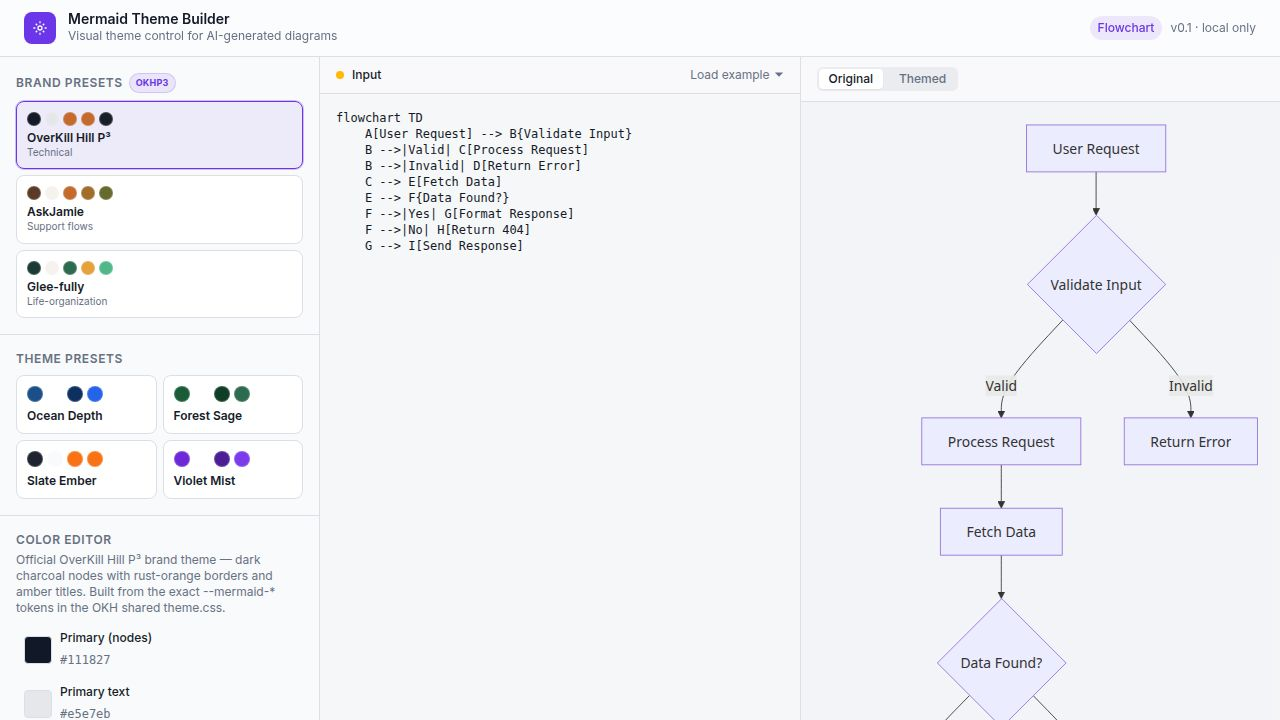
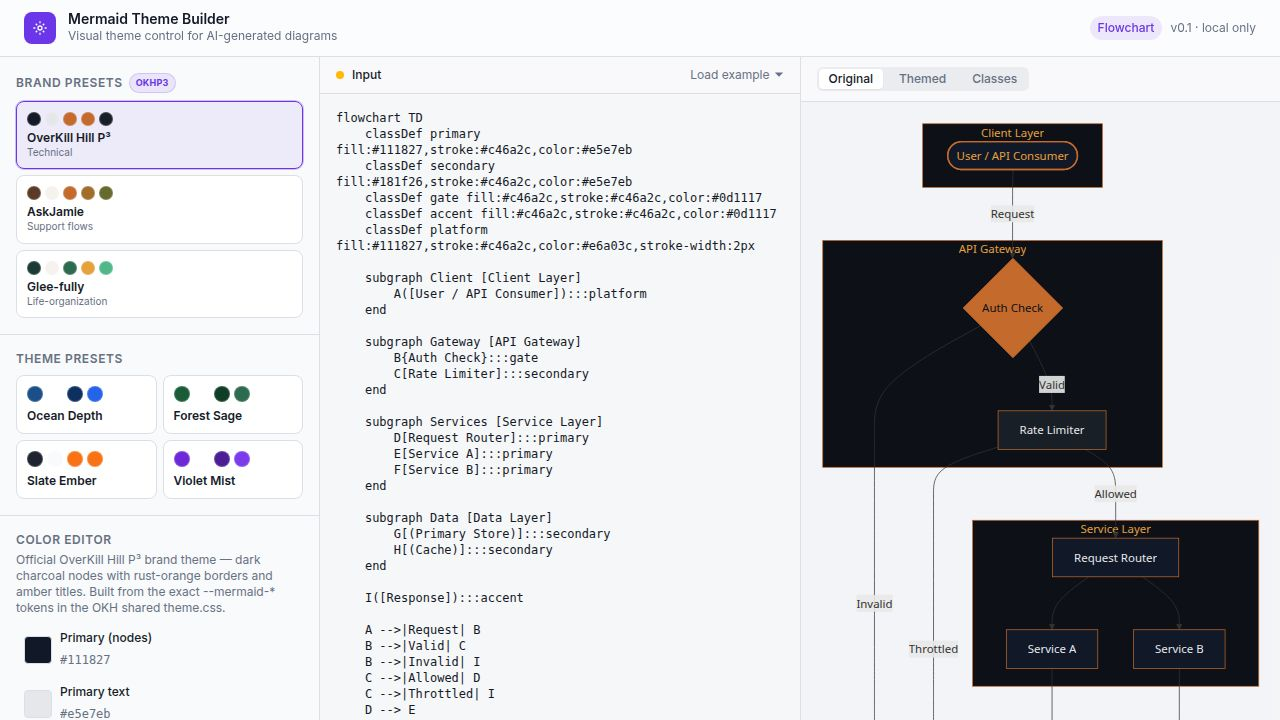
feat: Add Class Library tab showing live preview of all 16 diagram style classes
Task: Show a live preview of all 16 diagram style classes in the app (Task #8)

## What was built
- Exported a new `getClassDefs(palette: Palette): ClassDef[]` function from
  `artifacts/mermaid-theme-builder/src/lib/themeEngine.ts` that returns all 16
  semantic class definitions (primary, secondary, tertiary, platform, boundary,
  actor, gate, control, log, question, accent, deepBlue, slate, scope,
  outOfScope, redDash) as structured objects with fill, stroke, color, extra
  styles, and a human-readable description.

- Refactored `buildClassDefLibrary` to call `getClassDefs` internally, making
  it the single source of truth. The prompt-scaffold classDef text and the
  visual class browser always stay in sync — no duplicated definition arrays.

- Created `artifacts/mermaid-theme-builder/src/components/ClassBrowser.tsx`:
  a new component rendering a 4-column responsive CSS grid of 16 styled node
  cards. Each card mirrors the Mermaid classDef appearance using inline styles
  (fill as background, stroke as SVG rect border with dasharray support via an
  overlay rect, text in the class's color with font-weight/font-style extras).
  Clicking any card copies `:::className` to clipboard and shows a brief
  confirmation badge.

- Fixed `parseDashArray` regex to use `[\d.\s]+` instead of `[\d,\s]+` so
  comma-separated extra properties like `stroke-dasharray:8,opacity:0.6` are
  parsed cleanly — yielding `"8"` instead of `"8,"`.
[…]

diff --git a/artifacts/mermaid-theme-builder/src/lib/themeEngine.ts b/artifacts/mermaid-theme-builder/src/lib/themeEngine.ts
@@ -217,13 +217,32 @@ ${themeLines}
 
 /** Build a 16-entry semantic classDef library from palette hex values.
  *
- *  Classes are derived entirely from the palette's own color tokens —
- *  no BFS or third-party brand values are ever used here.
- *
- *  The "redDash" class uses a fixed deep-red (#3b0e0e / #b91c1c) that is
- *  an accessibility/warning marker, NOT a brand color.
+ *  Delegates to getClassDefs() as the single source of truth so the rendered
+ *  class browser and the exported classDef text always stay in sync.
  */
 function buildClassDefLibrary(palette: Palette): string {
+  return getClassDefs(palette)
+    .map(({ name, fill, stroke, color, extra }) => {
+      const style = [`fill:${fill}`, `stroke:${stroke}`, `color:${color}`, extra].filter(Boolean).join(",");
+      return `    classDef ${name} ${style}`;
+    })
+    .join("\n");
+}
+
+export interface ClassDef {
+  name: string;
+  fill: string;
+  stroke: string;
+  color: string;
+  extra: string;
+  description: string;
+}
+
+/**
+ * Returns all 16 semantic class definitions for the given palette as structured objects.
+ * Useful for building UI previews or custom renderers.
+ */
+export function getClassDefs(palette: Palette): ClassDef[] {
   const c = (key: string, fallback: string) =>
     palette.colors.find((cl) => cl.key === key)?.value ?? fallback;
 
@@ -239,31 +258,24 @@ function buildClassDefLibrary(palette: Palette): string {
   const titleColor     = c("titleColor",          "#e0e0e0");
   const lineColor      = c("lineColor",           "#888888");
 
-  const classes = [
-    { name: "primary",     fill: primary,    stroke: primaryBorder, color: primaryText,  extra: "" },
-    { name: "secondary",   fill: secondary,  stroke: primaryBorder, color: primaryText,  extra: "" },
-    { name: "tertiary",    fill: tertiary,   stroke: nodeBorder,    color: primaryText,  extra: "" },
-    { name: "platform",    fill: mainBkg,    stroke: lineColor,     color: primaryText,  extra: "" },
-    { name: "boundary",    fill: clusterBkg, stroke: lineColor,     color: titleColor,   extra: "stroke-dasharray:5" },
-    { name: "actor",       fill: primary,    stroke: primaryBorder, color: primaryText,  extra: "font-weight:bold" },
-    { name: "gate",        fill: primaryBorder, stroke: nodeBorder, color: background,   extra: "" },
-    { name: "control",     fill: tertiary,   stroke: nodeBorder,    color: primaryText,  extra: "" },
-    { name: "log",         fill: secondary,  stroke: lineColor,     color: primaryText,  extra: "font-style:italic" },
-    { name: "question",    fill: mainBkg,    stroke: lineColor,     color: titleColor,   extra: "stroke-dasharray:3" },
-    { name: "accent",      fill: lineColor,  stroke: nodeBorder,    color: background,   extra: "" },
-    { name: "deepBlue",    fill: primary,    stroke: nodeBorder,    color: primaryText,  extra: "stroke-width:2px" },
-    { name: "slate",       fill: background, stroke: lineColor,     color: primary,      extra: "" },
-    { name: "scope",       fill: clusterBkg, stroke: primaryBorder, color: titleColor,   extra: "stroke-width:2px" },
-    { name: "outOfScope",  fill: background, stroke: nodeBorder,    color: primaryText,  extra: "stroke-dasharray:8,opacity:0.6" },
-    { name: "redDash",     fill: "#3b0e0e",  stroke: "#b91c1c",     color: "#fecaca",    extra: "stroke-dasharray:4" },
+  return [
+    { name: "primary",    fill: primary,       stroke: primaryBorder, color: primaryText, extra: "",                          description: "Main action / entity" },
+    { name: "secondary",  fill: secondary,     stroke: primaryBorder, color: primaryText, extra: "",                          description: "Supporting entity" },
+    { name: "tertiary",   fill: tertiary,      stroke: nodeBorder,    color: primaryText, extra: "",                          description: "Background / context" },
+    { name: "platform",   fill: mainBkg,       stroke: lineColor,     color: primaryText, extra: "",                          description: "Infrastructure layer" },
+    { name: "boundary",   fill: clusterBkg,    stroke: lineColor,     color: titleColor,  extra: "stroke-dasharray:5",        description: "System limits" },
+    { name: "actor",      fill: primary,       stroke: primaryBorder, color: primaryText, extra: "font-weight:bold",          description: "Human roles" },
+    { name: "gate",       fill: primaryBorder, stroke: nodeBorder,    color: background,  extra: "",                          description: "Decision / gateway" },
+    { name: "control",    fill: tertiary,      stroke: nodeBorder,    color: primaryText, extra: "",                          description: "Management / orchestration" },
+    { name: "log",        fill: secondary,     stroke: lineColor,     color: primaryText, extra: "font-style:italic",         description: "Audit records" },
+    { name: "question",   fill: mainBkg,       stroke: lineColor,     color: titleColor,  extra: "stroke-dasharray:3",        description: "Unknowns / TBD" },
+    { name: "accent",     fill: lineColor,     stroke: nodeBorder,    color: background,  extra: "",                          description: "Highlighted results" },
+    { name: "deepBlue",   fill: primary,       stroke: nodeBorder,    color: primaryText, extra: "stroke-width:2px",          description: "Emphasis variant" },
+    { name: "slate",      fill: background,    stroke: lineColor,     color: primary,     extra: "",                          description: "Neutral / muted details" },
+    { name: "scope",      fill: clusterBkg,    stroke: primaryBorder, color: titleColor,  extra: "stroke-width:2px",          description: "Items in scope" },
+    { name: "outOfScope", fill: background,    stroke: nodeBorder,    color: primaryText, extra: "stroke-dasharray:8,opacity:0.6", description: "Excluded items" },
+    { name: "redDash",    fill: "#3b0e0e",     stroke: "#b91c1c",     color: "#fecaca",   extra: "stroke-dasharray:4",        description: "Warning / error" },
   ];
-
-  return classes
-    .map(({ name, fill, stroke, color, extra }) => {
-      const style = [`fill:${fill}`, `stroke:${stroke}`, `color:${color}`, extra].filter(Boolean).join(",");
-      return `    classDef ${name} ${style}`;
-    })
-    .join("\n");
 }
 
 /** Build 6-tier subgraph style patterns for the given palette. */

diff --git a/artifacts/mermaid-theme-builder/src/components/ClassBrowser.tsx b/artifacts/mermaid-theme-builder/src/components/ClassBrowser.tsx
@@ -1,0 +1,135 @@
+import { useState, useCallback } from "react";
+import type { ClassDef } from "@/lib/themeEngine";
+
+interface ClassBrowserProps {
+  classDefs: ClassDef[];
+}
+
+function parseDashArray(extra: string): string | undefined {
+  const m = extra.match(/stroke-dasharray\s*:\s*([\d.\s]+(?:\s+[\d.\s]+)*)/);
+  return m ? m[1].trim() : undefined;
+}
+
+function parseOpacity(extra: string): number | undefined {
+  const m = extra.match(/opacity\s*:\s*([\d.]+)/);
+  return m ? parseFloat(m[1]) : undefined;
+}
+
+function parseStrokeWidth(extra: string): string | undefined {
+  const m = extra.match(/stroke-width\s*:\s*([\w.]+)/);
+  return m ? m[1] : undefined;
+}
+
+function parseFontWeight(extra: string): string | undefined {
+  const m = extra.match(/font-weight\s*:\s*([\w]+)/);
+  return m ? m[1] : undefined;
+}
+
+function parseFontStyle(extra: string): string | undefined {
+  const m = extra.match(/font-style\s*:\s*([\w]+)/);
+  return m ? m[1] : undefined;
+}
+
+function ClassNode({ def, onCopy }: { def: ClassDef; onCopy: (name: string) => void }) {
+  const dashArray = parseDashArray(def.extra);
+  const opacity = parseOpacity(def.extra);
+  const strokeWidth = parseStrokeWidth(def.extra) ?? "1px";
+  const fontWeight = parseFontWeight(def.extra) ?? "normal";
+  const fontStyle = parseFontStyle(def.extra) ?? "normal";
+
+  const svgStrokeWidth = strokeWidth === "2px" ? 2 : 1;
+
+  return (
+    <button
+      onClick={() => onCopy(def.name)}
+      title={`Click to copy :::${def.name}`}
+      className="group flex flex-col items-stretch gap-0 rounded-lg overflow-hidden border border-border/40 hover:border-primary/50 hover:shadow-md transition-all text-left focus:outline-none focus:ring-1 focus:ring-primary/60"
+      style={{ opacity: opacity ?? 1 }}
+    >
+      <div
+        className="relative flex items-center justify-center px-2 py-3"
+        style={{ backgroundColor: def.fill }}
+      >
+        <svg
+          className="absolute inset-0 w-full h-full"
+          xmlns="http://www.w3.org/2000/svg"
+          preserveAspectRatio="none"
+        >
+          <rect
+            x={svgStrokeWidth / 2}
+            y={svgStrokeWidth / 2}
+            width={`calc(100% - ${svgStrokeWidth}px)`}
+            height={`calc(100% - ${svgStrokeWidth}px)`}
+            fill="none"
+            stroke={def.stroke}
+            strokeWidth={svgStrokeWidth}
+            strokeDasharray={dashArray}
+          />
+        </svg>
+        <span
+          className="relative z-10 text-[11px] font-mono leading-tight text-center break-all px-1"
+          style={{ color: def.color, fontWeight, fontStyle }}
+        >
+          {def.name}
+        </span>
+      </div>
+      <div className="bg-card/80 px-2 py-1.5 border-t border-border/30">
+        <p className="text-[10px] text-muted-foreground leading-tight line-clamp-1">
+          {def.description}
+        </p>
+        <p className="text-[9px] text-muted-foreground/50 font-mono mt-0.5 leading-none group-hover:text-primary/70 transition-colors">
+          :::{ def.name}
+        </p>
+      </div>
+    </button>
+  );
+}
+
+export function ClassBrowser({ classDefs }: ClassBrowserProps) {
+  const [copiedName, setCopiedName] = useState<string | null>(null);
+
+  const handleCopy = useCallback(async (name: string) => {
+    const text = `:::${name}`;
+    try {
+      await navigator.clipboard.writeText(text);
+    } catch {
+      const el = document.createElement("textarea");
+      el.value = text;
+      document.body.appendChild(el);
+      el.select();
+      document.execCommand("copy");
+      document.body.removeChild(el);
+    }
+    setCopiedName(name);
+    setTimeout(() => setCopiedName(null), 1800);
+  }, []);
+
+  return (
+    <div className="flex flex-col h-full overflow-auto p-4 bg-muted/20">
+      <div className="mb-3 flex items-center justify-between gap-2">
+        <div>
+          <p className="text-xs font-semibold text-foreground">Class Library</p>
+          <p className="text-[10px] text-muted-foreground mt-0.5">
+            16 semantic styles — click any node to copy its{" "}
+            <span className="font-mono">:::className</span> syntax
+          </p>
+        </div>
+        {copiedName && (
+          <span className="text-[10px] bg-primary/10 text-primary px-2 py-1 rounded-full font-mono animate-in fade-in duration-150">
+            Copied :::{ copiedName}
+          </span>
+        )}
+      </div>
+
+      <div className="grid grid-cols-2 sm:grid-cols-3 xl:grid-cols-4 gap-2">
+        {classDefs.map((def) => (
+          <ClassNode key={def.name} def={def} onCopy={handleCopy} />
+        ))}
+      </div>
+
+      <p className="mt-4 text-[10px] text-muted-foreground/50 text-center">
+        Styles update live as you edit palette colors in the sidebar
+      </p>
+    </div>
+  );
+}

diff --git a/artifacts/mermaid-theme-builder/src/pages/ThemeBuilder.tsx b/artifacts/mermaid-theme-builder/src/pages/ThemeBuilder.tsx
@@ -18,9 +18,11 @@ import { MermaidPreview } from "@/components/MermaidPreview";
 import { ColorSwatch } from "@/components/ColorSwatch";
 import { WarningBanner } from "@/components/WarningBanner";
 import { CapabilityNote } from "@/components/CapabilityNote";
+import { ClassBrowser } from "@/components/ClassBrowser";
+import { getClassDefs } from "@/lib/themeEngine";
 import { BRAND_EXAMPLES, GENERIC_EXAMPLE, SHOWCASE_EXAMPLE, SHOWCASE_META } from "@/data/examples";
 
-type Tab = "input" | "output";
+type Tab = "input" | "output" | "classes";
 type ExportType = "code" | "markdown" | "prompt";
 
 export function ThemeBuilder() {
@@ -135,6 +137,8 @@ export function ThemeBuilder() {
   );
 
   const previewCode = activeTab === "output" ? themedCode : inputCode;
+
+  const classDefs = useMemo(() => getClassDefs(selectedPalette), [selectedPalette]);
 
   return (
     <div className="min-h-screen bg-background flex flex-col">
@@ -334,17 +338,17 @@ export function ThemeBuilder() {
               <div className="px-4 py-2.5 border-b border-border flex items-center gap-2 bg-card/30">
                 <div className="flex items-center gap-2 flex-1">
                   <div className="flex items-center gap-1.5 p-0.5 rounded-md bg-muted">
-                    {(["input", "output"] as Tab[]).map((t) => (
+                    {(["input", "output", "classes"] as Tab[]).map((t) => (
                       <button
                         key={t}
                         onClick={() => setActiveTab(t)}
-                        className={`px-2.5 py-0.5 rounded text-xs font-medium transition-all capitalize ${
+                        className={`px-2.5 py-0.5 rounded text-xs font-medium transition-all ${
                           activeTab === t
                             ? "bg-card text-foreground shadow-xs"
                             : "text-muted-foreground hover:text-foreground"
                         }`}
                       >
-                        {t === "input" ? "Original" : "Themed"}
+                        {t === "input" ? "Original" : t === "output" ? "Themed" : "Classes"}
                       </button>
                     ))}
                   </div>
@@ -353,12 +357,21 @@ export function ThemeBuilder() {
                       {effectiveThemeName}
                     </span>
                   )}
+                  {activeTab === "classes" && (
+                    <span className="text-xs text-muted-foreground hidden sm:block">
+                      16 classDef styles
+                    </span>
+                  )}
                 </div>
               </div>
 
-              <div className="flex-1 overflow-auto p-4 bg-muted/20">
-                <MermaidPreview code={previewCode} className="min-h-[280px]" />
-              </div>
+              {activeTab === "classes" ? (
+                <ClassBrowser classDefs={classDefs} />
+              ) : (
+                <div className="flex-1 overflow-auto p-4 bg-muted/20">
+                  <MermaidPreview code={previewCode} className="min-h-[280px]" />
+                </div>
+              )}
             </div>
           </div>
 
